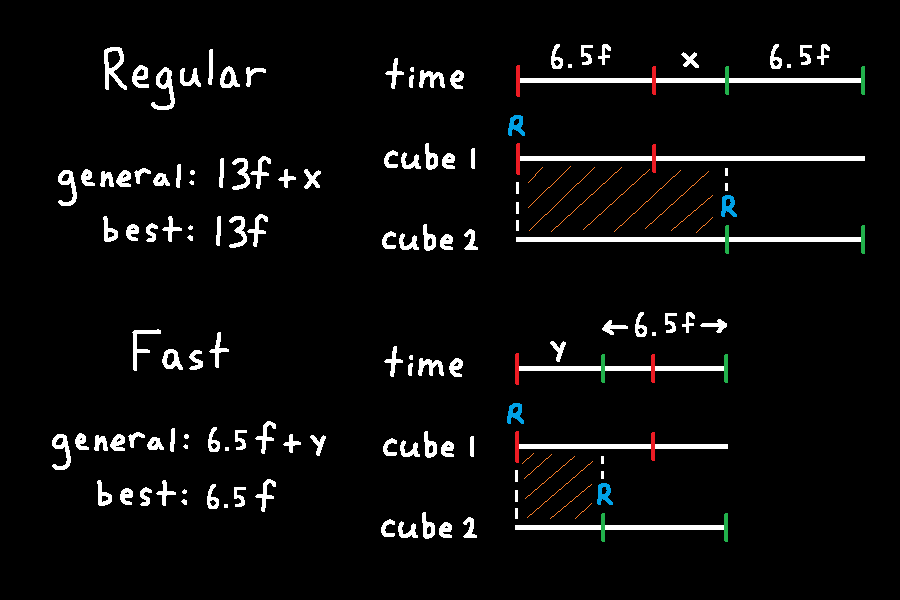
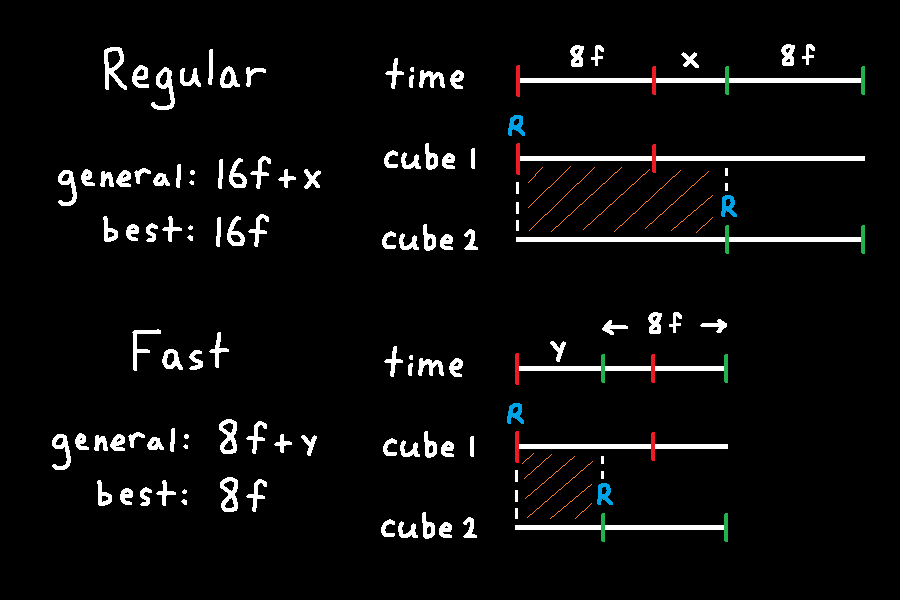
Fixed timings and added some chained fast toggle details

diff --git a/README.md b/README.md
@@ -51,13 +51,17 @@ The possible movements are **L**eft, **R**ight, **U**p, and **D**own for rolling
 
 ![directions](images/movement/directions.png)
 
-Below is a table of how long it takes for each movement direction-configuration combination. The time is shown in frames rounded to 3 decimals, where 1 frame = 1/30 seconds.
+Below is a table of how long it takes for each movement direction-configuration combination. The time is shown in frames, where 1 frame = 1/36 seconds. Frames will always be referring to 36 fps in this guide.
 
 |     | L   | R   | U   | D   |
 |-----|----:|----:|----:|----:|
-|**W**|6.605|6.555|6.605|7.414|
-|**L**|6.587|6.593|6.563|6.596|
-|**C**|6.545|6.550|6.557|6.561|
+|**W**|    8|    8|    8|    9|
+|**L**|    8|    8|    8|    8|
+|**C**|    8|    8|    8|    8|
+
+These timings are accurate for when I tested the HTML5 version on the Chrome browser. The HTML5 version on other browsers, or flash version on any browser had movements that were all 1f slower. Each move took 9f and WD took 10f.
+
+The WD movement is a frame slower than the other movements because its animation contains an extra frame.
 
 ### Input Buffering
 Inputs can be pressed as a block or cube is moving to get the next movement out as soon as possible. The most recent direction input is used, so the previous direction input can continue to be held. For this reason, you can overlap your inputs to ensure direction changes on the next possible frame.
@@ -70,7 +74,7 @@ As the block, you can buffer space to stop while holding a direction. I don't kn
 <img src="images/movement/buffer_space.gif" width="544" height="425"/>
 
 ### Fast Toggling
-Fast toggling is when you input a direction to a cube, swap to second cube, then input a direction to the second cube before the first cube finishes its movement animation. This allows moving both cubes at the same time. The time difference between initial direction input and toggling can range from 0ms to 217ms. 0ms is the fastest possible fast toggle, and anything after 217ms would be a regular toggle since the block has finished its moving animation.
+Fast toggling is when you input a direction to a cube, swap to second cube, then input a direction to the second cube before the first cube finishes its movement animation. This allows having both cubes moving at the same time, so the time to move 2 cubes is able to be less than double the time to move 1 cube. The time difference between initial direction input and second direction input after toggling can range from 0-8f or 0-222ms. 0ms is the fastest possible fast toggle, and anything after 222ms would be a regular toggle since the block has finished its moving animation.
 
 The comparison below shows the difference between regular toggling and fast toggling respectively. Regular toggling sends an input to the second cube after the first cube's movement animation ends. Fast toggling swaps and sends an input to the second cube before the first cube's movement animation ends.
 
@@ -78,15 +82,31 @@ The comparison below shows the difference between regular toggling and fast togg
 <img src="images/movement/fast_toggle.gif" width="544" height="425"/>
 
 \
-The image below shows the timing difference between regular and fast toggling. The time row labels the time in frames assuming 30fps, or indicates a variable. Inputs are coloured blue. Red and green indicate the start and end of the corresponding cube movement animations. Orange shading indicates the region where the swap input can be done.
+The image below shows the timing difference between regular and fast toggling. The time row labels the time in frames of 36 fps, or indicates a time variable. Inputs are coloured blue. Red and green indicate the start and end of the corresponding cube movement animations. Orange shading indicates the region where the swap input can be done.
 
 <img src="images/movement/fast_toggle.png" width="850" height="600"/>
 
-The top timeline shows the timing of a regular toggle. Time begins when Right is sent to cube 1. The movement animation takes 6.5f. The variable x represents how long you wait after the first cube's animation before sending Right to the second cube. The range of x is `x >= 0`, so `x = 0` is the fastest regular toggle. The swap input can occur anywhere between time 0 and x.  
+The top timeline shows the timing of a regular toggle. Time begins when Right is sent to cube 1. The movement animation takes 8f. The variable x represents how long you wait after the first cube's animation before sending Right to the second cube. The range of x is `x >= 0`, so `x = 0` is the fastest regular toggle. The swap input can occur anywhere between time 0 and x.  
 The bottom timeline shows the timing of a fast toggle. The variable y represents how long you wait between Right inputs for each cube. The swap input can occur anywhere between time 0 and y.
 
 ### Chained Fast Toggling
+Chained fast toggling is just fast toggling but you continue to do it back to back. The movement input you send to the second cube for the initial fast toggle becomes the first input of the next fast toggle. Optimally, you can move both cubes at full speed. The gif below is noticeably suboptimal since the cubes are stopping a lot.
+
 <img src="images/movement/chained_fast_toggle.gif" width="544" height="425"/>
+
+There's a few aspects of optimizing chained fast toggling, so an example in stage 10 will be used.
+
+<img src="images/movement/cft_example.png" width="540" height="390"/>
+
+After splitting in stage 10, you need a block to press the soft switch as early as possible, then join to press the heavy switch. Cube 1 (blue) takes less moves to reach the soft switch, so moving that cube to that switch without stopping is optimal. The earliest you can press the heavy switch is constrained by the cube with the longer path, which is cube 1. This means that cube 2 (red) just needs to arrive at the joining spot before or at the same time as cube 1 to be optimal. This practical case of cube 2 not needing to be as fast as possible to be optimal is relevant in understanding part of optimal chained fast toggling.
+
+Chained fast toggling can be split into the beginning and end, and the repeating stuff in the middle.
+
+The beginning is just a regular fast toggle, where both cubes are initially stationary. Assuming optimal chained fast toggling, the time difference between first and second cube movement inputs, `y`, is also the time difference of when the cubes stop moving at the end. The significance of this time difference at the end is shown by the example of stage 10. If you start chained fast toggling immediately after the split, `y` doesn't matter for an optimal stage time since cube 2 will be waiting for cube 1 anyways. However, in cases where both cubes arrive at the joining spot at the same time, minimizing `y` is fast.
+
+The stuff in the middle is just a repeating sequence of the same thing. The repeating sequence starts from swapping after moving a cube. Now, you have to buffer the direction input so the cube keeps moving as soon as it lands. Once this input is given, you swap as soon as possible, and you're back to the beginning of the repeating sequence, but for the other cube. If you successfully buffer these direction inputs, both cubes will move without stopping, which is the same speed as just holding down a direction for one cube.
+
+Since a move takes 8f, a single iteration of the repeating sequence to move both cubes at the same time is 4 inputs in 8f, or 18 inputs per second optimally. If `y = 4f`, the movement inputs for each cube are equally spaced, and you can press these inputs at a regular rhythm. In the case of stage 10, cube 2 landing 4f later doesn't lose time.
 
 ----
 ## Glitches
@@ -115,11 +135,11 @@ The significance of instance duplication is that it allows for you to skip level
 #### How to do it
 The basic idea is to make both cubes fall off the edge at the same time. This requires doing a non-fast toggle off the edge. This means sending movement input to the first cube, swap, then send movement input to the second cube after the first cube's movement animation has finished. For instance duplication, move the second cube once the first cube is in the falling animation. If you try sending a movement input to the second cube before the first cube's movement animation is finished, you'll see it snap back onto the tile.
 
-The video below sends a movement input to the top cube after 4 frames, so it snaps back on the tile.
+The video below sends a movement input to the top cube after 4/30 seconds, so it snaps back on the tile.
 
 <img src="images/glitches/early_stack.gif" width="544" height="425"/>
 
-The video below sends a movement input to the top cube after 7 frames. I think this is the earliest possible frame for 30fps and 1 frame off optimal in 60fps.
+The video below sends a movement input to the top cube after 7/30 seconds. I think this is the earliest possible frame if you're checking a 30 fps video.
 
 <img src="images/glitches/fast_stack.gif" width="544" height="425"/>
 
